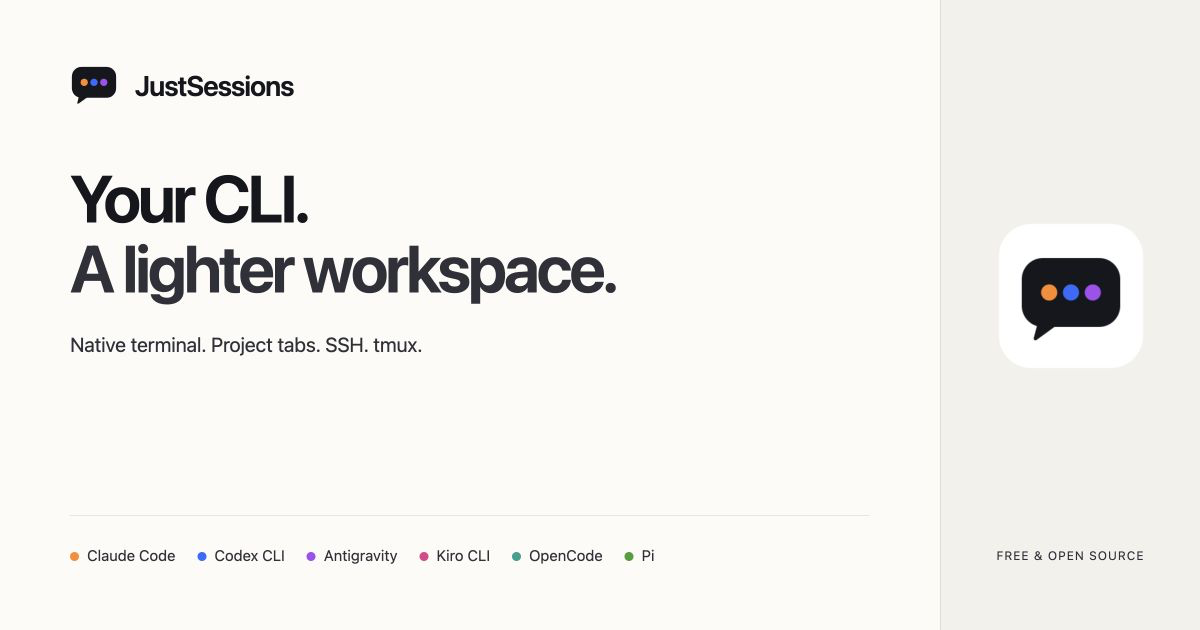
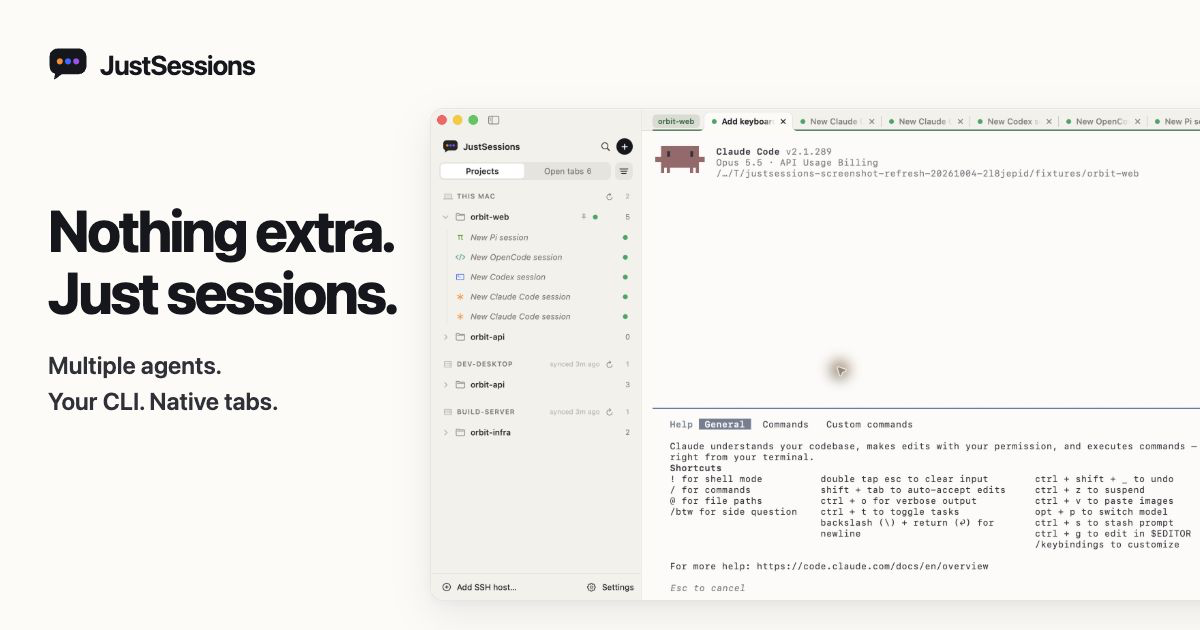
Update social sharing card with real app screenshot

diff --git a/website/social/preview.html b/website/social/preview.html
@@ -8,30 +8,27 @@
   <style>
     * { box-sizing: border-box; }
     body { margin: 0; font-family: -apple-system, BlinkMacSystemFont, "Segoe UI", sans-serif; color: #15171c; }
-    .social-card { position: relative; width: 1200px; height: 630px; overflow: hidden; background: #fcfbf8; padding: 65px 70px; }
-    .brand { display: flex; align-items: center; gap: 17px; font-size: 28px; font-weight: 600; letter-spacing: -1px; }
-    .brand img { width: 48px; }
-    h1 { position: relative; z-index: 1; margin: 57px 0 25px; font-size: 66px; line-height: 1.06; letter-spacing: -3px; font-weight: 650; }
-    h1 span { color: #303139; }
-    p { position: relative; z-index: 1; font-size: 20px; line-height: 1.65; color: #303139; }
-    .providers { position: absolute; bottom: 66px; left: 70px; display: flex; gap: 22px; font-size: 15px; color: #303139; }
-    i { display: inline-block; width: 9px; height: 9px; margin-right: 8px; border-radius: 50%; }
-    .claude { background: #ff8a1f; } .codex { background: #2f6bff; } .antigravity { background: #a64df0; }
-    .kiro { background: #e0408a; } .opencode { background: #12a08f; } .pi { background: #3f9f2f; }
-    .side { position: absolute; top: 0; right: 0; width: 260px; height: 100%; border-left: 1px solid #15171c17; background: #f3f1ec; }
-    .side img { position: absolute; width: 180px; left: 40px; top: 206px; }
-    .side p { position: absolute; left: 0; right: 0; bottom: 52px; text-align: center; font-size: 12px; letter-spacing: 1px; }
-    .rule { position: absolute; left: 70px; width: 800px; bottom: 114px; border-top: 1px solid #15171c17; }
+    .social-card { position: relative; width: 1200px; height: 630px; overflow: hidden; background: #fcfbf8; padding: 44px 48px; }
+    .brand { display: flex; align-items: center; gap: 12px; font-size: 27px; font-weight: 650; letter-spacing: -1px; }
+    .brand img { width: 40px; height: 40px; }
+    .copy { position: relative; z-index: 1; width: 350px; }
+    h1 { margin: 115px 0 24px; font-size: 58px; line-height: 1.07; letter-spacing: -2.5px; font-weight: 750; }
+    h1 span { display: block; white-space: nowrap; }
+    p { margin: 0; font-size: 24px; line-height: 1.5; font-weight: 600; color: #303139; }
+    .app-window { position: absolute; top: 108px; left: 430px; width: 820px; overflow: hidden; border: 1px solid #15171c17; border-radius: 14px; background: #fcfbf8; box-shadow: 0 14px 38px #15171c15, 0 3px 8px #15171c08; }
+    .app-window img { display: block; width: 100%; height: auto; }
   </style>
 </head>
 <body>
   <main class="social-card">
     <div class="brand"><img src="../../Branding/SVG/mark.svg" alt="">JustSessions</div>
-    <h1>Your CLI.<br><span>A lighter workspace.</span></h1>
-    <p>Native terminal. Project tabs. SSH. tmux.</p>
-    <div class="rule"></div>
-    <div class="providers"><span><i class="claude"></i>Claude Code</span><span><i class="codex"></i>Codex CLI</span><span><i class="antigravity"></i>Antigravity</span><span><i class="kiro"></i>Kiro CLI</span><span><i class="opencode"></i>OpenCode</span><span><i class="pi"></i>Pi</span></div>
-    <div class="side"><img src="../../Branding/PNG/app-icon-256.png" alt=""><p>FREE & OPEN SOURCE</p></div>
+    <div class="copy">
+      <h1><span>Nothing extra.</span><span>Just sessions.</span></h1>
+      <p>Multiple agents.<br>Your CLI. Native tabs.</p>
+    </div>
+    <div class="app-window">
+      <img src="../../docs/images/native-terminal.jpg" width="2400" height="1440" alt="JustSessions running Claude Code, with Claude Code, Codex, OpenCode and Pi sessions grouped under one project.">
+    </div>
   </main>
 </body>
 </html>

diff --git a/website/index.html b/website/index.html
@@ -15,12 +15,12 @@
   <meta property="og:image" content="https://yangzichao.github.io/JustSessions/assets/social-preview.png">
   <meta property="og:image:width" content="1200">
   <meta property="og:image:height" content="630">
-  <meta property="og:image:alt" content="JustSessions — Your CLI. A lighter workspace. Native terminal, project tabs, SSH and tmux for six coding agents.">
+  <meta property="og:image:alt" content="JustSessions — Nothing extra. Just sessions. Claude Code in a native terminal, with multiple agents grouped under one project.">
   <meta name="twitter:card" content="summary_large_image">
   <meta name="twitter:title" content="JustSessions — Claude Code &amp; Codex CLI Workspace for macOS">
   <meta name="twitter:description" content="Manage Claude Code, Codex and other agent sessions in a lightweight Mac app. Keep your CLI workflow, with native tabs, split view, SSH and bundled tmux.">
   <meta name="twitter:image" content="https://yangzichao.github.io/JustSessions/assets/social-preview.png">
-  <meta name="twitter:image:alt" content="JustSessions — Your CLI. A lighter workspace. Native terminal, project tabs, SSH and tmux for six coding agents.">
+  <meta name="twitter:image:alt" content="JustSessions — Nothing extra. Just sessions. Claude Code in a native terminal, with multiple agents grouped under one project.">
   <link rel="icon" type="image/svg+xml" href="./assets/mark.svg">
   <link rel="apple-touch-icon" href="./assets/app-icon-256.png">
   <link rel="stylesheet" href="./styles/app-theme.css">

diff --git a/website/guide.html b/website/guide.html
@@ -15,12 +15,12 @@
   <meta property="og:image" content="https://yangzichao.github.io/JustSessions/assets/social-preview.png">
   <meta property="og:image:width" content="1200">
   <meta property="og:image:height" content="630">
-  <meta property="og:image:alt" content="JustSessions — Your CLI. A lighter workspace. Native terminal, project tabs, SSH and tmux for six coding agents.">
+  <meta property="og:image:alt" content="JustSessions — Nothing extra. Just sessions. Claude Code in a native terminal, with multiple agents grouped under one project.">
   <meta name="twitter:card" content="summary_large_image">
   <meta name="twitter:title" content="JustSessions Guide — Resume AI Coding Sessions on macOS">
   <meta name="twitter:description" content="Find, read, and resume AI coding sessions on macOS. Learn reading controls, compare six CLIs, connect SSH hosts, and keep work running with tmux.">
   <meta name="twitter:image" content="https://yangzichao.github.io/JustSessions/assets/social-preview.png">
-  <meta name="twitter:image:alt" content="JustSessions — Your CLI. A lighter workspace. Native terminal, project tabs, SSH and tmux for six coding agents.">
+  <meta name="twitter:image:alt" content="JustSessions — Nothing extra. Just sessions. Claude Code in a native terminal, with multiple agents grouped under one project.">
   <link rel="icon" type="image/svg+xml" href="./assets/mark.svg">
   <link rel="apple-touch-icon" href="./assets/app-icon-256.png">
   <link rel="stylesheet" href="./styles/app-theme.css">

diff --git a/docs/development/website.md b/docs/development/website.md
@@ -57,7 +57,11 @@ Before publishing, build the site and check the homepage and Guide at desktop an
 
 ## Social preview
 
-`website/social/preview.html` is the editable source for the checked-in `website/social/social-preview.png`. Serve the repository root locally, open the source in a browser with a 1200 × 630 viewport and device scale factor 1, then capture the `.social-card` element as a 1200 × 630 PNG. Only the PNG is published. The image uses the existing brand artwork; it does not contain a fabricated app screenshot.
+`website/social/preview.html` is the editable source for the checked-in `website/social/social-preview.png`. Serve the repository root locally, open the source in a browser with a 1200 × 630 viewport and device scale factor 1, then capture the `.social-card` element as a 1200 × 630 PNG. Only the PNG is published. The card pairs “Nothing extra. Just sessions.” with the existing brand artwork and the real app capture in `docs/images/native-terminal.jpg`: Claude Code's terminal and several agents under one project. The app window extends slightly beyond the card's right edge; its sidebar and CLI remain visible. Keep the headline aligned with the homepage and replace the capture when the app UI changes. Update the matching Open Graph and Twitter image alt text on both the homepage and Guide. Recording and sample-data details remain in [screenshot provenance](../images/README.md).
+
+Slack and other sharing clients read the published Open Graph / Twitter metadata to select this image; they do not capture the homepage slideshow. The build gives the shared PNG a content-hashed URL, including in structured app data. After deployment, check both page metadata and the PNG with a Slackbot-style request. This proves the resources are accessible, rather than verifying the final Slack message layout. Slack can cache link metadata; use its [URL debugger](https://api.slack.com/tools/unfurl-debugger) or a private Slack message to inspect the actual preview.
+
+If the browser exports JPEG, convert it before saving the published PNG: `sips -s format png /path/to/capture.jpg --out website/social/social-preview.png`. Confirm the output is a 1200 × 630 PNG with `file website/social/social-preview.png`; changing the extension alone does not change the format.
 
 ## Deployment and discovery
 
